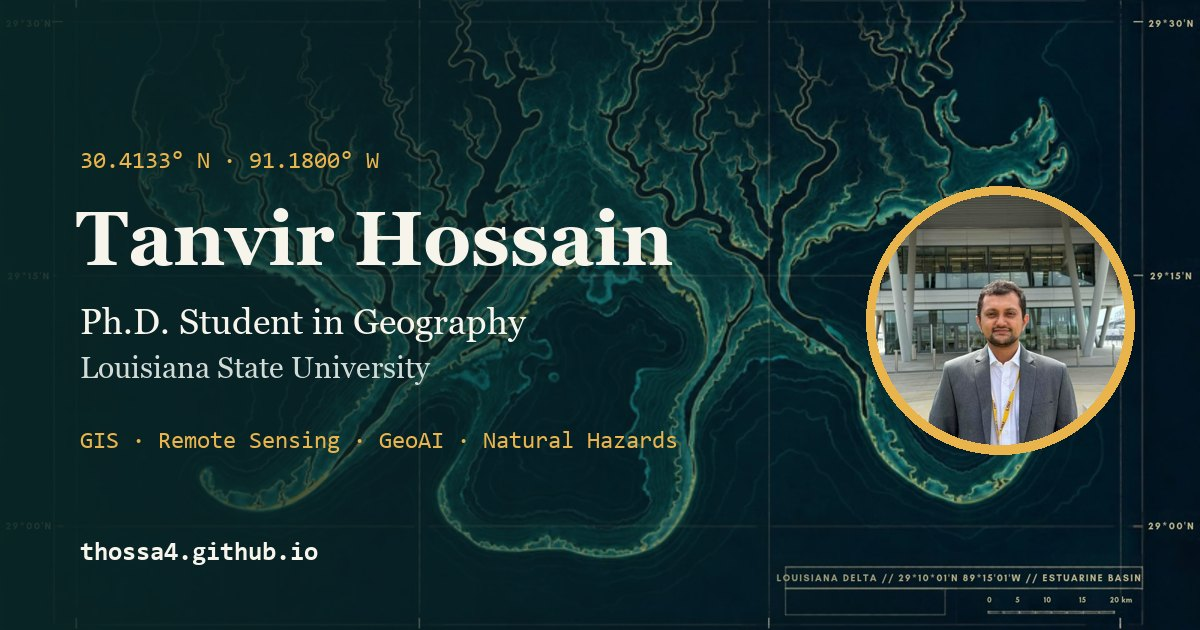
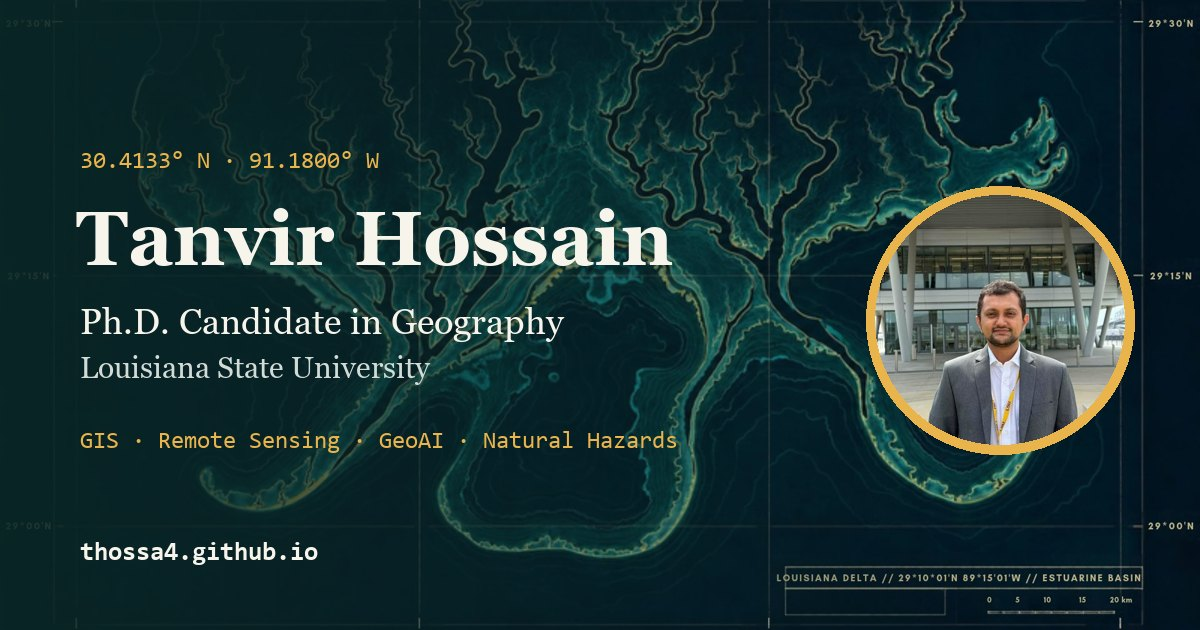
PhD candidate milestone, Springer chapter and GSA news

Changed region(s): [[0.1542, 0.4825, 0.4625, 0.5429]]

diff --git a/data.js b/data.js
@@ -8,7 +8,7 @@ const SITE = {
   profile: {
     name: "Tanvir Hossain",
     initials: "TH",
-    title: "Ph.D. Student in Geography",
+    title: "Ph.D. Candidate in Geography",
     affiliation: "Department of Geography & Anthropology · Louisiana State University",
     location: "Baton Rouge, LA",
     // Put your photo at assets/headshot.jpg (square works best). If the file is missing, initials show instead.
@@ -17,6 +17,7 @@ const SITE = {
     heroImage: "assets/art/hero.jpg",
     bio: [
       "I'm a geographer working where GIS, remote sensing, and machine learning meet natural hazards. My research builds GeoAI frameworks for multi-hazard susceptibility mapping and land-use vulnerability assessment in coastal Louisiana, so communities and planners can see risk before it arrives.",
+      "I recently passed my doctoral general examination and defended my dissertation proposal, which examines coastal hazards, agricultural damage, and community vulnerability in Louisiana.",
       "Before my Ph.D., I trained as an urban and regional planner and environmental economist. I contributed to Dhaka's Detailed Area Plan (2016–2035) and later studied how farming communities adapt to climate change. That mix of planning, economics, and geospatial science shapes how I approach resilience: rigorous models that people can actually use."
     ],
     interests: [
@@ -244,8 +245,11 @@ const SITE = {
 
   // News strip near the top — newest first. Keep 4–6 items.
   news: [
+    { date: "Nov 2026", text: "Passed the doctoral general examination and defended my dissertation proposal. Now a Ph.D. candidate!" },
     { date: "Dec 2026", text: "Two abstracts accepted at the AGU Annual Meeting: multi-hazard susceptibility mapping, and climate-smart agriculture." },
     { date: "Nov 2026", text: "Co-authored paper on machine learning and remote sensing for drought modeling in Louisiana published in Science of the Total Environment.", link: "https://doi.org/10.1016/j.scitotenv.2026.182386" },
+    { date: "Oct 2026", text: "Book chapter on tropical cyclone risk in the Bay of Bengal published by Springer Nature in Tropical Cyclone Risk and Resilience." },
+    { date: "Oct 2026", text: "Presented coastal-hazard model transferability research at GSA Connects 2026 in Denver." },
     { date: "Aug 2026", text: "Started as Graduate Teaching Assistant for GEOG 4044 at LSU." },
     { date: "Aug 2026", text: "Paper published in ISPRS International Journal of Geo-Information on multi-hazard coastal susceptibility.", link: "https://doi.org/10.3390/ijgi15080346" },
     { date: "2026", text: "Received the AAG-IGIF Graduate Research Award." },
@@ -406,7 +410,7 @@ const SITE = {
       type: "presentation", year: 2026,
       authors: "Hossain, T., & Leitner, M.",
       title: "Deltaic Geomorphology Governs the Transferability of Machine-Learning Coastal Hazard Models in Louisiana",
-      venue: "Abstract · GSA Connects 2026"
+      venue: "Presented · GSA Connects 2026, Denver"
     },
     {
       type: "presentation", year: 2026,

diff --git a/index.html b/index.html
@@ -4,7 +4,7 @@
   <meta charset="utf-8">
   <meta name="viewport" content="width=device-width, initial-scale=1">
   <title>Tanvir Hossain · Geography & GeoAI</title>
-  <meta name="description" content="Tanvir Hossain, Ph.D. student in Geography at Louisiana State University. GIS, remote sensing, GeoAI, natural hazards, and coastal resilience.">
+  <meta name="description" content="Tanvir Hossain, Ph.D. candidate in Geography at Louisiana State University. GIS, remote sensing, GeoAI, natural hazards, and coastal resilience.">
   <meta property="og:title" content="Tanvir Hossain · Geography & GeoAI">
   <meta property="og:description" content="GIS, remote sensing, and machine learning for natural hazards and coastal resilience.">
   <meta property="og:type" content="profile">
@@ -12,7 +12,7 @@
   <meta property="og:image" content="https://thossa4.github.io/assets/og-image.jpg">
   <meta property="og:image:width" content="1200">
   <meta property="og:image:height" content="630">
-  <meta property="og:image:alt" content="Tanvir Hossain, Ph.D. student in Geography at Louisiana State University">
+  <meta property="og:image:alt" content="Tanvir Hossain, Ph.D. candidate in Geography at Louisiana State University">
   <meta name="twitter:card" content="summary_large_image">
   <link rel="canonical" href="https://thossa4.github.io/">
   <script type="application/ld+json">
@@ -22,7 +22,7 @@
     "name": "Tanvir Hossain",
     "url": "https://thossa4.github.io/",
     "image": "https://thossa4.github.io/assets/headshot.jpg",
-    "jobTitle": "Ph.D. Student in Geography",
+    "jobTitle": "Ph.D. Candidate in Geography",
     "affiliation": { "@type": "CollegeOrUniversity", "name": "Louisiana State University" },
     "knowsAbout": ["GIS", "Remote Sensing", "GeoAI", "Machine Learning", "Natural Hazards", "Coastal Resilience"],
     "sameAs": [
